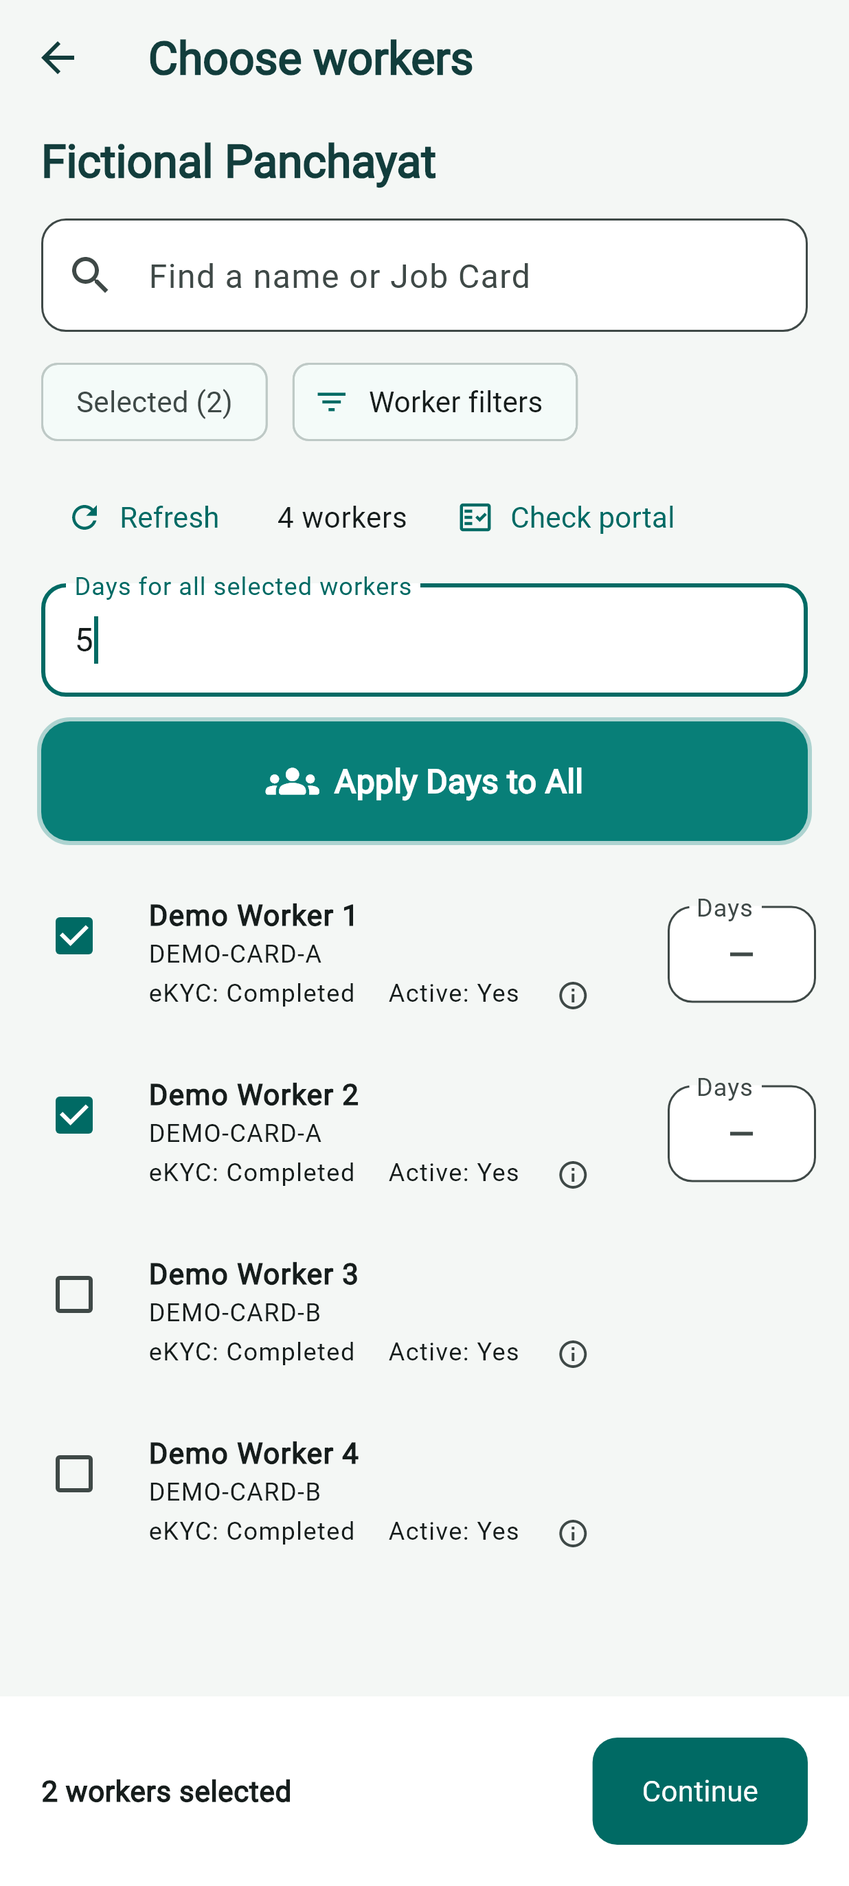
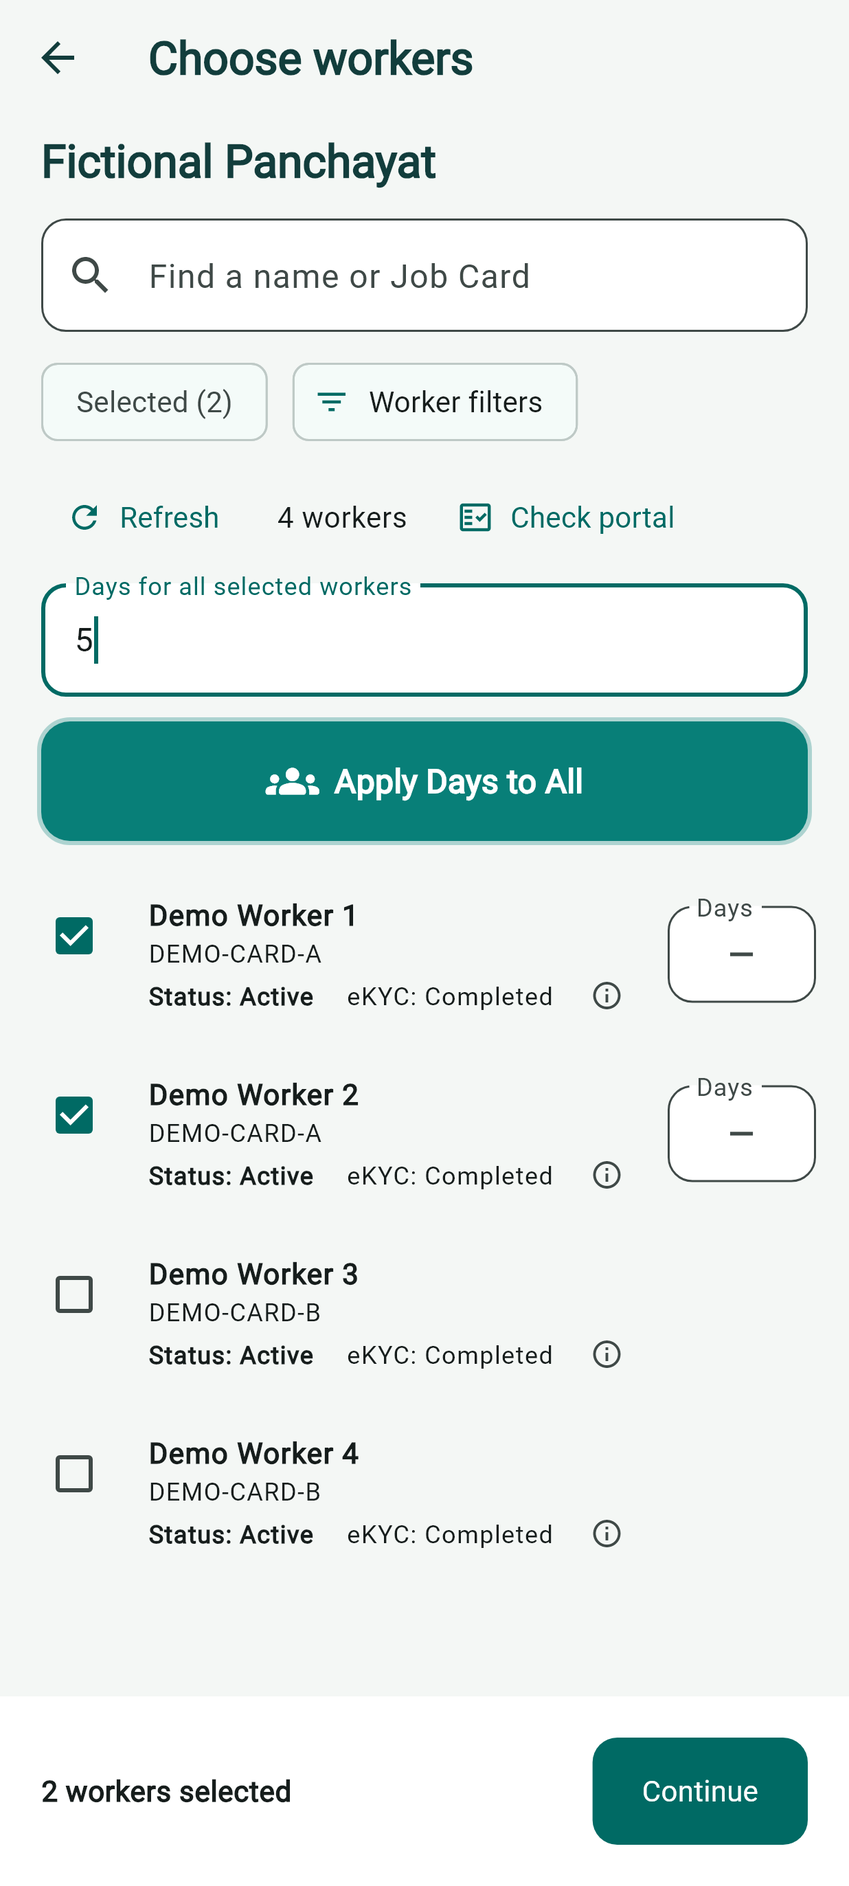
Refresh app showcase, 15 fictional previews and plain-English guides

diff --git a/README.md b/README.md
@@ -14,16 +14,16 @@ VBGRAMG DEO Assistant helps Data Entry Operators (DEOs) organise Job Cards, work
 
 ## Download
 
-Published downloads: desktop **1.4.16**, Android **1.4.16**.
+Published downloads: desktop **1.4.17**, Android **1.4.17**.
 
 | Device | Download |
 | --- | --- |
-| Windows 64-bit | [Download 1.4.16](https://github.com/Changtey/Worker-Demand-releases/releases/download/v1.4.16/VBGRAMG-DEO-Assistant-1.4.16-Setup.exe) |
-| Linux Debian / Ubuntu | [Download 1.4.16](https://github.com/Changtey/Worker-Demand-releases/releases/download/v1.4.16/VBGRAMG-DEO-Assistant-1.4.16-Linux-x64.deb) |
-| Linux AppImage | [Download 1.4.16](https://github.com/Changtey/Worker-Demand-releases/releases/download/v1.4.16/VBGRAMG-DEO-Assistant-1.4.16-Linux-x64.AppImage) |
-| Android APK | [Download 1.4.16](https://github.com/Changtey/Worker-Demand-releases/releases/download/v1.4.16/Worker-Demand-1.4.16.apk) |
+| Windows 64-bit | [Download 1.4.17](https://github.com/Changtey/Worker-Demand-releases/releases/download/v1.4.17/VBGRAMG-DEO-Assistant-1.4.17-Setup.exe) |
+| Linux Debian / Ubuntu | [Download 1.4.17](https://github.com/Changtey/Worker-Demand-releases/releases/download/v1.4.17/VBGRAMG-DEO-Assistant-1.4.17-Linux-x64.deb) |
+| Linux AppImage | [Download 1.4.17](https://github.com/Changtey/Worker-Demand-releases/releases/download/v1.4.17/VBGRAMG-DEO-Assistant-1.4.17-Linux-x64.AppImage) |
+| Android APK | [Download 1.4.17](https://github.com/Changtey/Worker-Demand-releases/releases/download/v1.4.17/Worker-Demand-1.4.17.apk) |
 
-[Release notes and checksums](https://github.com/Changtey/Worker-Demand-releases/releases/tag/v1.4.16).
+[Release notes and checksums](https://github.com/Changtey/Worker-Demand-releases/releases/tag/v1.4.17).
 
 Check the linked release notes for tested systems and remaining limits. Windows publisher signing is still pending for the current test release.
 
@@ -46,6 +46,8 @@ Both videos use CC0 public-domain music. [Read the music-use details](https://gi
 
 ## What you can do
 
+On first use, sign in to VBGRAMG in **Browser**, save your assigned Panchayats or Villages, and wait for the required downloads to reach **100%**. Your default login page and work areas are kept for your account. Change areas later in Settings. Daily background updates continue, while matching completed eKYC, ABPS and Aadhaar Availability checks are reused with their original check dates.
+
 - Find Job Cards, household members, saved worker checks and days left.
 - Search by name or Job Card; filter by active status, Aadhaar availability, identity checks and Aadhaar payment checks.
 - Prepare each worker's requested days and dates, then use **Check demand** to find issues.
@@ -60,7 +62,7 @@ The app follows the portal's offered **State → District → Block → Panchaya
 
 ## See the app
 
-**Screens captured for desktop 1.4.16 and Android 1.4.16 · 2026-10-26.**
+**Screens captured for desktop 1.4.17 and Android 1.4.17 · 2026-10-27.**
 
 All 15 pictures use fictional records. **Android** pictures show the current Android screens at phone size. **Desktop preview** pictures show the current desktop app in a narrow window; they do not mean that desktop tools are available in Android. Open any picture for the full size. The pictures do not show a real office account or an official submission.
 
@@ -71,7 +73,7 @@ All 15 pictures use fictional records. **Android** pictures show the current And
 <td width="33%" valign="top"><b>03. Secretary access</b><br><sub>Desktop preview</sub><br><a href="docs/screenshots/03-secretary-access.png"><img src="docs/screenshots/03-secretary-access.png" width="260" alt="Desktop preview: 03. Secretary access"></a><br>Assign a Panchayat or Village and create a Secretary login code.</td>
 </tr>
 <tr>
-<td width="33%" valign="top"><b>04. Browser controls</b><br><sub>Desktop preview</sub><br><a href="docs/screenshots/04-integrated-browser.png"><img src="docs/screenshots/04-integrated-browser.png" width="260" alt="Desktop preview: 04. Browser controls"></a><br>Open VBGRAMG from the desktop app. The official website is not pictured.</td>
+<td width="33%" valign="top"><b>04. First setup and your login page</b><br><sub>Desktop preview</sub><br><a href="docs/screenshots/04-integrated-browser.png"><img src="docs/screenshots/04-integrated-browser.png" width="260" alt="Desktop preview: 04. First setup and your login page"></a><br>Browser opens first. Save your own State, Financial Year, District and Block, then sign in yourself. Next, save assigned areas and finish the required download. This is a narrow desktop preview with fictional choices; the official website is not pictured.</td>
 <td width="33%" valign="top"><b>05. Review a phone request</b><br><sub>Android</sub><br><a href="docs/screenshots/05-android-work-demand.png"><img src="docs/screenshots/05-android-work-demand.png" width="260" alt="Android: 05. Review a phone request"></a><br>Review workers and their own requested days before sending to the DEO.</td>
 <td width="33%" valign="top"><b>06. Secretary request history</b><br><sub>Android</sub><br><a href="docs/screenshots/06-secretary-work-demand.png"><img src="docs/screenshots/06-secretary-work-demand.png" width="260" alt="Android: 06. Secretary request history"></a><br>Find requests and follow the status returned by the office.</td>
 </tr>
@@ -126,13 +128,13 @@ Work Demand charging was turned on after the app publication. Browser automation
 
 This online service update applies to the existing app downloads. The recharge package stays ₹50 for 50 Balance. No installation file was replaced. The earlier release notes describe the charging setting at the time they were written.
 
-**Published 1.4.16**
+**Published 1.4.17**
 
-- **Tokens** is now called **Balance** in the desktop menus, account screens, gifts, referral rewards, reports and balance history. The amounts, prices and saved payment records keep their existing meaning. Balance is app credit; recharge prices are shown in rupees.
-- When a Work Demand task cannot start because its balance is too low, the app opens **Recharge** with a clear explanation. **Return to your work** brings the user back. The current request, workers, days and dates are kept.
-- Village report choices show a **Recharge** button when more balance is needed. A low-balance answer while starting or saving a report also opens Recharge and keeps the checked Villages and report choices.
-- A zero available balance shows a recharge suggestion. Balance held for unfinished tasks has separate help. An unread or unknown balance is not treated as zero.
-- Opening Recharge does not start a payment. The user still chooses the shown amount, confirms before opening Razorpay and completes the payment. Payment checks keep the same recharge number after a lost reply. Returning to work does not automatically submit a demand or repeat a report.
-- The public guide and 15 numbered fictional app pictures are refreshed. The Android download has the matching version; official entry and office balance controls remain desktop features.
+- Desktop always opens **Browser** first, including when an older saved choice named another starting screen.
+- On first setup, the user selects their own State, Financial Year, District and Block, saves their default login page, and signs in to VBGRAMG personally. The login area is kept under that app account and is available in **Settings → Portal login**. Password storage still requires the existing Browser Save or Update…
+- The user chooses the Panchayats or Villages assigned to their data entry work and selects **Save areas and download**. Choices are kept separately for each app account on the computer. Saving a choice does not grant government portal permissions.
+- Other tools stay unavailable until the first required download reaches **100%** and the user chooses **Continue to Browser**. Checks cover the selected areas&#x27; Job Cards, workers, work records, days worked, shared Job Card family days left, eKYC, ABPS, Aadhaar availability and Muster Roll source reports. Partial…
+- First setup is kept after reopening. **Settings → Portal login → Change my work areas** allows later additions and removals while keeping at least one assigned work area. Existing saved records are retained.
+- While the desktop app is open and connected, the user&#x27;s saved areas continue updating daily in the background. Workdays and Muster Roll source reports keep updating after first setup. Finished first setup is not repeated merely because a later daily update is due.
 
 See [latest changes and their release status](docs/LATEST_CHANGES.md). The public repository holds downloads and guides. App building files and office records stay on the owner's computer.

diff --git a/docs/USER_GUIDE.md b/docs/USER_GUIDE.md
@@ -2,7 +2,7 @@
 
 [Home](../README.md) · [Feature list](FEATURES.md) · [Latest changes](LATEST_CHANGES.md)
 
-**Screens captured for desktop 1.4.16 and Android 1.4.16 · 2026-10-26.**
+**Screens captured for desktop 1.4.17 and Android 1.4.17 · 2026-10-27.**
 
 Screenshots use fictional people and areas. Android and desktop are labelled separately. Your assigned areas and the portal's current lists determine what you can see.
 
@@ -25,6 +25,23 @@ Both videos use CC0 public-domain music. [Read the music-use details](https://gi
 
 ## 1. Install and sign in
 
+### First setup for your app account
+
+1. Sign in to the app with your own Google account. **Browser** always opens first.
+2. Choose your own State, Financial Year, District and Block under **Set my default login page**. Choose **Save and open login area**. These choices are kept in **Settings → Portal login**, separately for each app account on this computer.
+3. On the official VBGRAMG page, enter your User ID, Password and Security Code, then choose Login yourself. Use the Browser's Save or Update control if you want to save the User ID and Password securely. The Security Code is never saved.
+4. Select only the Panchayats or Villages assigned to you for data entry. A whole Panchayat includes its Villages. Choose **Save areas and download**. These are your work choices; saving them does not grant government portal access.
+5. Wait for **100% complete**. The app checks Job Cards, workers, work records, days worked, shared Job Card family days left, eKYC, ABPS, Aadhaar availability and the required Muster Roll source reports. Missing reports, a lost sign-in or an unfinished Security Code keep setup open. Follow the message and choose **Retry missing data** when needed.
+6. Choose **Continue to Browser** after every required download finishes. This first setup is saved. You do not select the same areas again each time you open the app.
+
+Change your selections later through **Settings → Portal login → Change my work areas**. You can add or remove areas while keeping at least one working area. The new selections download in the background, and existing saved records are kept.
+
+While the desktop app is open and connected, your saved working areas update daily in the background. Worker days and Muster Roll source reports keep updating after first setup. Completed eKYC, ABPS and Aadhaar Availability answers can be reused when their saved proof matches the same worker and Job Card. Old answers without a matching worker record, changed identities, missing answers and unverified workers still need checks. A deliberate **Update worker checks** can request a new read. Reusing an answer keeps its original check date; it is not a new live check.
+
+Source-report downloads do not submit a Work Demand or generate a paid PDF copy. PDF saving and printing keep their existing separate confirmation and Balance rules.
+
+### Daily use
+
 1. Open the [app downloads](https://github.com/Changtey/Worker-Demand-releases#download). Choose Windows, Linux or Android for your device.
 2. Keep your existing app and saved records when updating. See the release notes for installation checks and known limits.
 3. On desktop, use **Sign in with Google** and finish in your computer's usual browser. This is separate from your official portal login.
@@ -35,16 +52,16 @@ The sidebar shows a short explanation under each tool. **Work Demand Management*
 
 Your selected Panchayat and Village stay in place while Android requests and background records are checked. Changing a Panchayat updates its Village choices. Use **Update lists** when you need to read an area list again. The earlier choices stay visible during that read and if it fails; choose **Try again** after a failure. Changing a parent area clears only the choices below it.
 
-Published downloads: desktop **1.4.16**, Android **1.4.16**.
+Published downloads: desktop **1.4.17**, Android **1.4.17**.
 
 | Device | Download |
 | --- | --- |
-| Windows 64-bit | [Download 1.4.16](https://github.com/Changtey/Worker-Demand-releases/releases/download/v1.4.16/VBGRAMG-DEO-Assistant-1.4.16-Setup.exe) |
-| Linux Debian / Ubuntu | [Download 1.4.16](https://github.com/Changtey/Worker-Demand-releases/releases/download/v1.4.16/VBGRAMG-DEO-Assistant-1.4.16-Linux-x64.deb) |
-| Linux AppImage | [Download 1.4.16](https://github.com/Changtey/Worker-Demand-releases/releases/download/v1.4.16/VBGRAMG-DEO-Assistant-1.4.16-Linux-x64.AppImage) |
-| Android APK | [Download 1.4.16](https://github.com/Changtey/Worker-Demand-releases/releases/download/v1.4.16/Worker-Demand-1.4.16.apk) |
+| Windows 64-bit | [Download 1.4.17](https://github.com/Changtey/Worker-Demand-releases/releases/download/v1.4.17/VBGRAMG-DEO-Assistant-1.4.17-Setup.exe) |
+| Linux Debian / Ubuntu | [Download 1.4.17](https://github.com/Changtey/Worker-Demand-releases/releases/download/v1.4.17/VBGRAMG-DEO-Assistant-1.4.17-Linux-x64.deb) |
+| Linux AppImage | [Download 1.4.17](https://github.com/Changtey/Worker-Demand-releases/releases/download/v1.4.17/VBGRAMG-DEO-Assistant-1.4.17-Linux-x64.AppImage) |
+| Android APK | [Download 1.4.17](https://github.com/Changtey/Worker-Demand-releases/releases/download/v1.4.17/Worker-Demand-1.4.17.apk) |
 
-[Release notes and checksums](https://github.com/Changtey/Worker-Demand-releases/releases/tag/v1.4.16).
+[Release notes and checksums](https://github.com/Changtey/Worker-Demand-releases/releases/tag/v1.4.17).
 
 ### Find the next task
 
@@ -117,7 +134,7 @@ Job Card members share the household's days left. A missing total means **Not kn
 ## 6. Make a work request on Android
 
 1. On **Home**, check your account and assigned Panchayat or Village. A DEO can choose among their assigned areas.
-2. Choose **Create work request**. Search by worker or Job Card and choose the workers.
+2. Choose **Create work request**. Search by worker or Job Card and choose the workers. Each row shows **Status: Active**, **Status: Inactive** or **Status: Unknown**, followed by eKYC. The same labels appear when entering days and reviewing the request. Open **Worker filters** and set **Active member** to **All** to include inactive workers. Missing or old answers show **Unknown** until checked again.
 3. Choose **Check portal** to read the selected workers' public reports directly on the phone. Review eKYC and active status. Tap the information button beside a worker to open **Worker details** for days worked, family days left, Aadhaar availability, Aadhaar Based Payment System (ABPS), other offered checks, sources and check times. Choose **Stop portal check** if needed; your choices are kept.
 4. Set each selected worker's requested days, or enter days above the wide teal **Apply Days to All** button and press it to use those days for every selected worker.
 5. Continue to the work details. Enter the start date and the other requested details. Choose a saved work if needed.

diff --git a/docs/LATEST_CHANGES.md b/docs/LATEST_CHANGES.md
@@ -2,20 +2,20 @@
 
 [Home](../README.md) · [User guide](USER_GUIDE.md) · [Features](FEATURES.md)
 
-**Screens captured for desktop 1.4.16 and Android 1.4.16 · 2026-10-26.**
+**Screens captured for desktop 1.4.17 and Android 1.4.17 · 2026-10-27.**
 
 ## Published apps
 
-Published downloads: desktop **1.4.16**, Android **1.4.16**.
+Published downloads: desktop **1.4.17**, Android **1.4.17**.
 
 | Device | Download |
 | --- | --- |
-| Windows 64-bit | [Download 1.4.16](https://github.com/Changtey/Worker-Demand-releases/releases/download/v1.4.16/VBGRAMG-DEO-Assistant-1.4.16-Setup.exe) |
-| Linux Debian / Ubuntu | [Download 1.4.16](https://github.com/Changtey/Worker-Demand-releases/releases/download/v1.4.16/VBGRAMG-DEO-Assistant-1.4.16-Linux-x64.deb) |
-| Linux AppImage | [Download 1.4.16](https://github.com/Changtey/Worker-Demand-releases/releases/download/v1.4.16/VBGRAMG-DEO-Assistant-1.4.16-Linux-x64.AppImage) |
-| Android APK | [Download 1.4.16](https://github.com/Changtey/Worker-Demand-releases/releases/download/v1.4.16/Worker-Demand-1.4.16.apk) |
+| Windows 64-bit | [Download 1.4.17](https://github.com/Changtey/Worker-Demand-releases/releases/download/v1.4.17/VBGRAMG-DEO-Assistant-1.4.17-Setup.exe) |
+| Linux Debian / Ubuntu | [Download 1.4.17](https://github.com/Changtey/Worker-Demand-releases/releases/download/v1.4.17/VBGRAMG-DEO-Assistant-1.4.17-Linux-x64.deb) |
+| Linux AppImage | [Download 1.4.17](https://github.com/Changtey/Worker-Demand-releases/releases/download/v1.4.17/VBGRAMG-DEO-Assistant-1.4.17-Linux-x64.AppImage) |
+| Android APK | [Download 1.4.17](https://github.com/Changtey/Worker-Demand-releases/releases/download/v1.4.17/Worker-Demand-1.4.17.apk) |
 
-[Release notes and checksums](https://github.com/Changtey/Worker-Demand-releases/releases/tag/v1.4.16).
+[Release notes and checksums](https://github.com/Changtey/Worker-Demand-releases/releases/tag/v1.4.17).
 
 The linked release notes describe what was built, checked and published. A current source picture does not update an installed app or replace an installation file.
 
@@ -27,14 +27,14 @@ Work Demand charging was turned on after the app publication. Browser automation
 
 This online service update applies to the existing app downloads. The recharge package stays ₹50 for 50 Balance. No installation file was replaced. The earlier release notes describe the charging setting at the time they were written.
 
-**Published 1.4.16**
+**Published 1.4.17**
 
-- **Tokens** is now called **Balance** in the desktop menus, account screens, gifts, referral rewards, reports and balance history. The amounts, prices and saved payment records keep their existing meaning. Balance is app credit; recharge prices are shown in rupees.
-- When a Work Demand task cannot start because its balance is too low, the app opens **Recharge** with a clear explanation. **Return to your work** brings the user back. The current request, workers, days and dates are kept.
-- Village report choices show a **Recharge** button when more balance is needed. A low-balance answer while starting or saving a report also opens Recharge and keeps the checked Villages and report choices.
-- A zero available balance shows a recharge suggestion. Balance held for unfinished tasks has separate help. An unread or unknown balance is not treated as zero.
-- Opening Recharge does not start a payment. The user still chooses the shown amount, confirms before opening Razorpay and completes the payment. Payment checks keep the same recharge number after a lost reply. Returning to work does not automatically submit a demand or repeat a report.
-- The public guide and 15 numbered fictional app pictures are refreshed. The Android download has the matching version; official entry and office balance controls remain desktop features.
+- Desktop always opens **Browser** first, including when an older saved choice named another starting screen.
+- On first setup, the user selects their own State, Financial Year, District and Block, saves their default login page, and signs in to VBGRAMG personally. The login area is kept under that app account and is available in **Settings → Portal login**. Password storage still requires the existing Browser Save or Update…
+- The user chooses the Panchayats or Villages assigned to their data entry work and selects **Save areas and download**. Choices are kept separately for each app account on the computer. Saving a choice does not grant government portal permissions.
+- Other tools stay unavailable until the first required download reaches **100%** and the user chooses **Continue to Browser**. Checks cover the selected areas&#x27; Job Cards, workers, work records, days worked, shared Job Card family days left, eKYC, ABPS, Aadhaar availability and Muster Roll source reports. Partial…
+- First setup is kept after reopening. **Settings → Portal login → Change my work areas** allows later additions and removals while keeping at least one assigned work area. Existing saved records are retained.
+- While the desktop app is open and connected, the user&#x27;s saved areas continue updating daily in the background. Workdays and Muster Roll source reports keep updating after first setup. Finished first setup is not repeated merely because a later daily update is due.
 
 These pictures were refreshed from the source used for this publication.
 

diff --git a/docs/FEATURES.md b/docs/FEATURES.md
@@ -2,7 +2,18 @@
 
 [Home](../README.md) · [User guide](USER_GUIDE.md) · [Latest changes](LATEST_CHANGES.md)
 
-**Screens captured for desktop 1.4.16 and Android 1.4.16 · 2026-10-26.**
+**Screens captured for desktop 1.4.17 and Android 1.4.17 · 2026-10-27.**
+
+## First setup and daily records
+
+- **Browser opens first:** an old starting-screen choice cannot send the app to another tool.
+- **Personal default login page:** save your own State, Financial Year, District and Block in Settings. Enter the official User ID, Password and Security Code yourself.
+- **One-time work-area selection:** save the Panchayats or Villages assigned to your data entry work under your own app account. Add or remove places later in Settings.
+- **Required first download:** the other tools open after the selected areas' required worker, workday and Muster Roll source records are checked. A percentage bar shows completion. Failed or unfinished reports never count as complete.
+- **Daily background updates:** saved working areas keep updating while the app is open and connected. A completed first setup is kept during later background updates.
+- **Reuse completed worker checks:** eKYC, ABPS and Aadhaar Availability can reuse matching saved positive proof for the same worker and Job Card. Missing or unverified answers are retried. A changed identity or an explicit new-check request still needs a new read.
+
+Saved selections do not change official permissions. Source downloads do not submit demands or create paid PDF copies.
 
 | Feature | Desktop | Android |
 | --- | --- | --- |
@@ -35,7 +46,7 @@
 
 ## Worker checks
 
-Android can read public portal reports directly for selected assigned workers. Use **Check portal**, then the worker's information button for **Worker details**, including each answer's source and check time. It reads explicit eKYC, active or inactive status, offered identity and payment checks, complete worked days and confirmed family days left. Missing, incomplete or access-protected reports keep the saved copy with a clear message. Phone checks do not use Balance or submit official records.
+Android shows **Status: Active**, **Status: Inactive** or **Status: Unknown** beside eKYC when choosing workers, entering days and reviewing a request. Set **Worker filters → Active member → All** to include inactive workers. Android can read public portal reports directly for selected assigned workers. Use **Check portal**, then the worker's information button for **Worker details**, including each answer's source and check time. It reads explicit eKYC, active or inactive status, offered identity and payment checks, complete worked days and confirmed family days left. Missing, incomplete or access-protected reports keep the saved copy with a clear message. Phone checks do not use Balance or submit official records.
 
 The app shows saved answers and whether they are current. Electronic identity verification (**eKYC**) and the Aadhaar Based Payment System (**ABPS**) are shown separately from Aadhaar availability. Statuses such as inactive, deleted, missing or old remain meaningful. Missing information is never counted as a confirmed answer.
 
